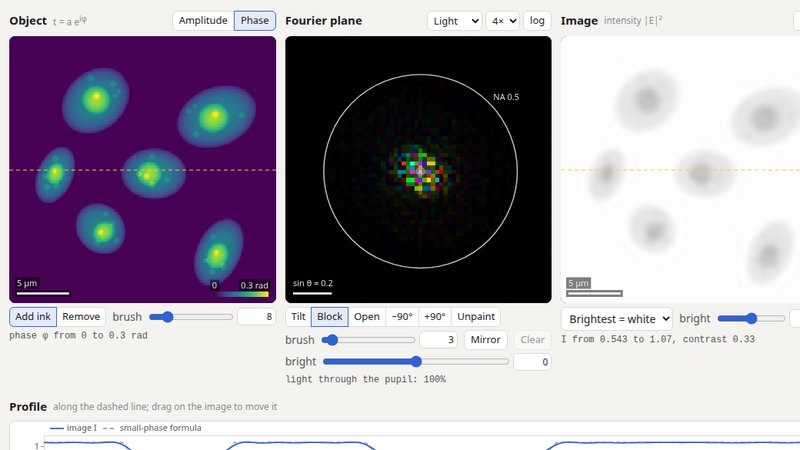
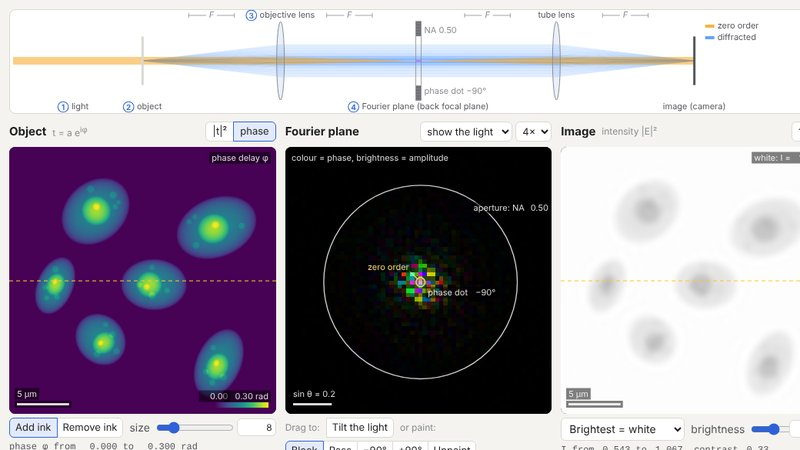
Imaging: the UI test clicks what a student clicks; a new thumbnail
The test now presses the four Fourier-plane buttons, the dot's two
signs, Condenser and a preset, and drags the NA slider, checking what
each does to the image and to the notes.  The schlieren text says which
way the phase must rise to brighten (towards the kept side), and the
Fourier plane's "light" view in incoherent light says it is what one
plane wave would make.  docs/imaging.jpg remade from #setup=zernike: it
now shows the sketch above the pictures.

Claude-Session: https://claude.ai/code/session_01Uf588EmEoW67UxQKckEGyR

diff --git a/imaging/index.html b/imaging/index.html
@@ -231,8 +231,8 @@
     $t\approx1+\frac{i\epsilon}{2}\left(e^{ikx}+e^{-ikx}\right)$; the knife removes the
     $e^{-ikx}$ order and leaves
     $$I\approx\left|1+\tfrac{i\epsilon}{2}e^{ikx}\right|^2\approx1-\epsilon\sin kx=1+\frac1k\frac{\partial\varphi}{\partial x}:$$
-    where the phase rises across the edge's direction the image is brighter, where it falls
-    darker.  The cells look lit from one side, in relief (Hoffman's modulation contrast
+    where the phase rises towards the kept side (to the right, with the knife at 0°) the image
+    is brighter, where it falls darker.  The cells look lit from one side, in relief (Hoffman's modulation contrast
     microscope, 1975, refines this for living cells).  Turn the knife's angle and the light
     swings round.  With the <em>Condenser</em> on, the knife also cuts the image of the light
     source, as in the schlieren cameras that photograph shock waves and hot air.</p>

diff --git a/imaging/app.js b/imaging/app.js
@@ -494,7 +494,7 @@ function drawFourier() {
   };
   // What the colours mean, top left.
   label(ctx, view === 'otf' ? 'the OTF: what incoherent light transfers' : view === 'pupil' ? 'the pupil P: colour = its phase'
-    : 'colour = phase, brightness = amplitude', 8 * dd, 14 * dd);
+    : state.illum === 'incoherent' ? 'the light as one plane wave would make it' : 'colour = phase, brightness = amplitude', 8 * dd, 14 * dd);
   if (view === 'otf') {
     circle(0, 0, 2 * state.NA * k, 'rgba(255,255,255,0.55)', [5 * dd, 4 * dd]);
     label(ctx, 'cutoff 2NA/λ', X(0) + 2 * state.NA * k * s * 0.72, Y(0) - 2 * state.NA * k * s * 0.72 - 8 * dd);

diff --git a/tests/ui/imaging.py b/tests/ui/imaging.py
@@ -100,6 +100,33 @@ with Browser('imaging/index.html', size=(1400, 900)) as b:
     check([l[0] for l in labels] == ['1', '2', '3', '4'] and 'Light' in labels[0] and 'Object' in labels[1] and 'Objective' in labels[2] and 'Fourier' in labels[3],
           f'the side panel goes along the light: {labels}')
 
+    # A student's first clicks, on the buttons themselves: the four things to put in the Fourier
+    # plane, the sign of the dot, the light, an object, the NA slider.
+    def click_text(sel, text):
+        b.eval(f"[...document.querySelectorAll({json.dumps(sel)})].find((e) => e.textContent.includes({json.dumps(text)})).click()"); settle(b)
+    click_text('.filters button', 'Open')
+    c, note = b.eval('__app.stats().contrast'), b.eval("document.querySelector('#filter-note').textContent")
+    check(b.eval('__app.state.filter') == 'open' and c < 0.01 and 'barely shows' in note, f'Open: the cells all but vanish (contrast {c:.4f}), and the note says why')
+    click_text('.filters button', 'Stop')
+    tp = b.eval('__app.throughput()')
+    check(b.eval('__app.state.filter') == 'stop' and tp < 0.05, f'Stop: the zero order is blocked, {100 * tp:.1f}% of the light gets through')
+    click_text('.filters button', 'Knife edge')
+    check(b.eval('__app.state.filter') == 'knife' and b.eval('__app.stats().contrast') > 0.1, 'Knife edge: the cells show in relief')
+    click_text('.filters button', 'Phase dot')
+    click_text('#filter .seg button', '+90°')
+    check(b.eval('__app.state.dotPhase') == 90 and b.eval(CORR_PHASE) > 0.9, 'Phase dot, then +90°: the cells turn bright')
+    click_text('#filter .seg button', '−90°')
+    check(b.eval('__app.state.dotPhase') == -90 and b.eval(CORR_PHASE) < -0.9, '−90°: dark again')
+    click_text('#illum .seg button', 'Condenser')
+    shown = b.eval("[...document.querySelectorAll('#illum .slider')].some((e) => !e.hidden && e.textContent.includes('condenser'))")
+    check(b.eval('__app.state.illum') == 'condenser' and shown, 'Condenser: the light is a cone, and its NA slider appears')
+    click_text('#illum .seg button', 'Coherent')
+    b.eval("(() => { const r = [...document.querySelectorAll('#objective .slider')].find((e) => e.textContent.startsWith('NA')).querySelector('input[type=range]'); r.value = 500; r.dispatchEvent(new Event('input')); })()"); settle(b)
+    na = b.eval('__app.state.NA')
+    check(0.7 < na < 0.75, f'the NA slider moves the aperture (NA {na})')
+    click_text('#presets button', 'Grating')
+    check(b.eval('__app.state.preset') == 'grating' and b.eval('__app.orders()') is not None, 'the Grating button puts a grating under the lens')
+
     # Speed: the work of one frame after a change of the pupil (dragging NA, painting the pupil)
     # and of the object (painting it).  The fastest of 9 measures the code; the median also
     # measures whatever else the computer is doing.
